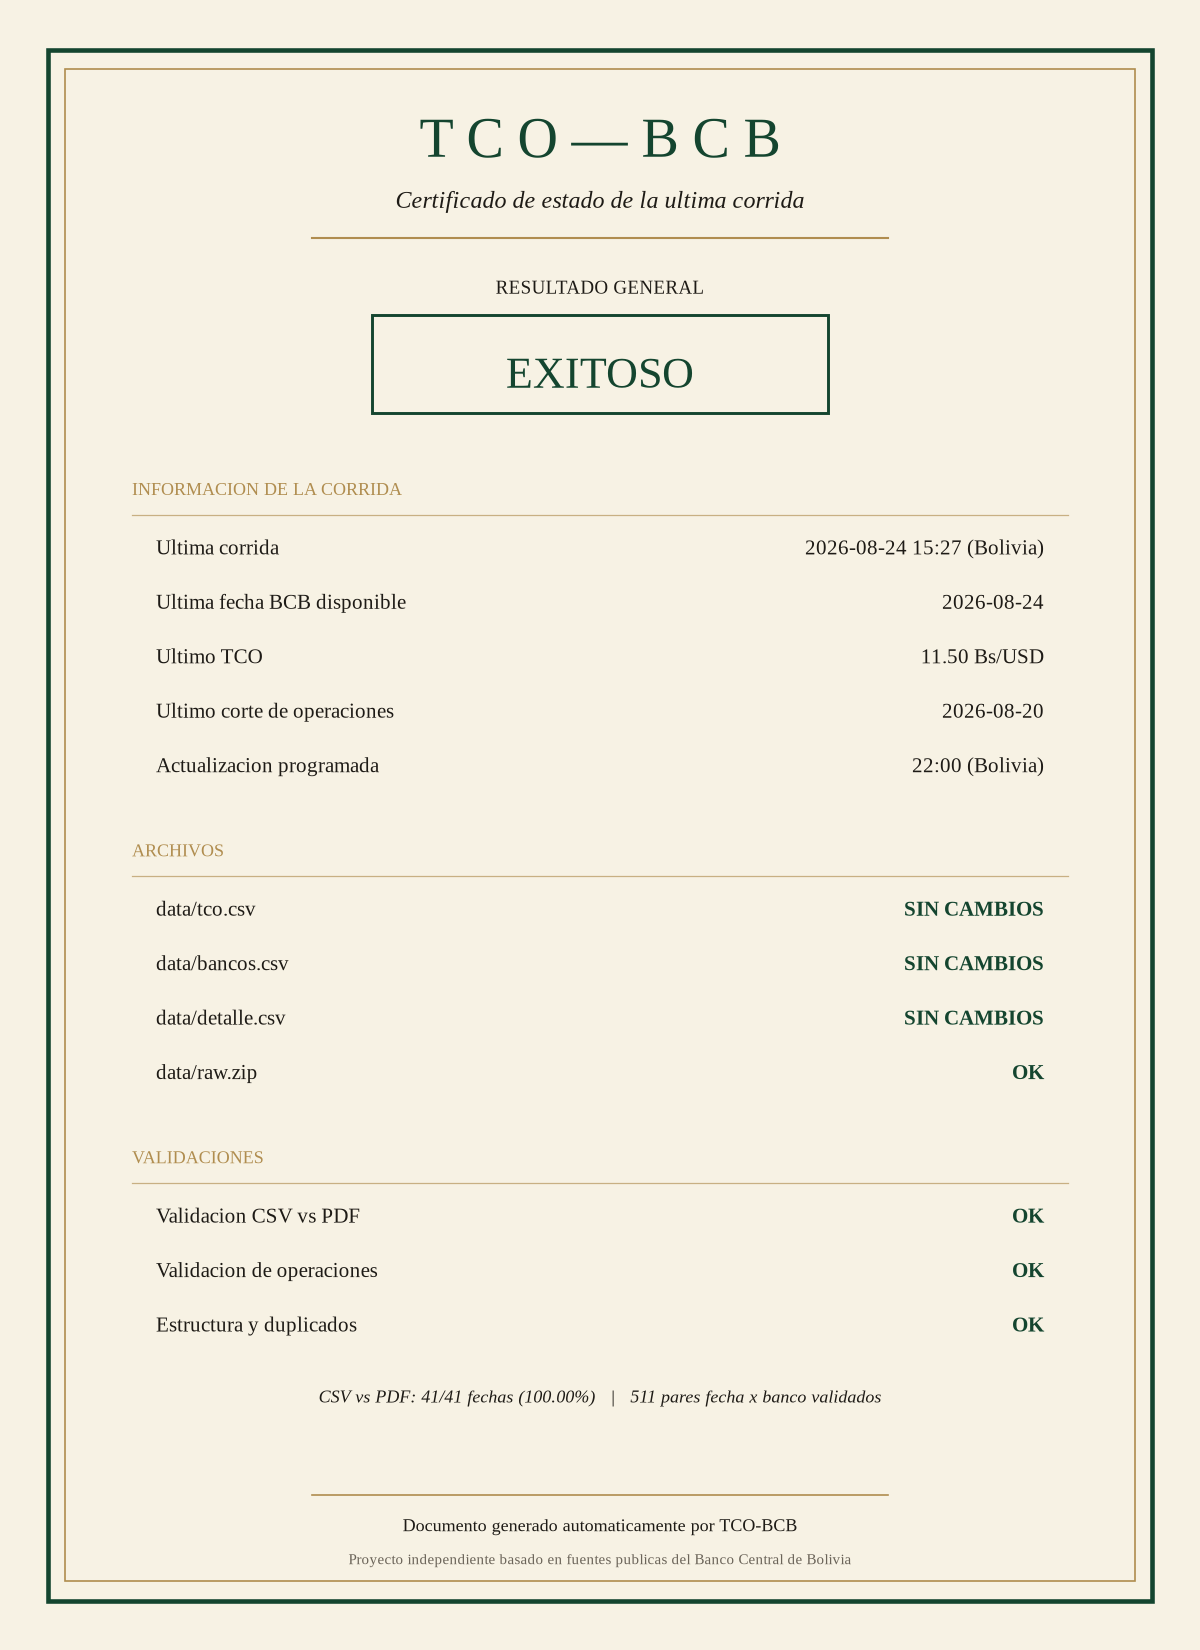
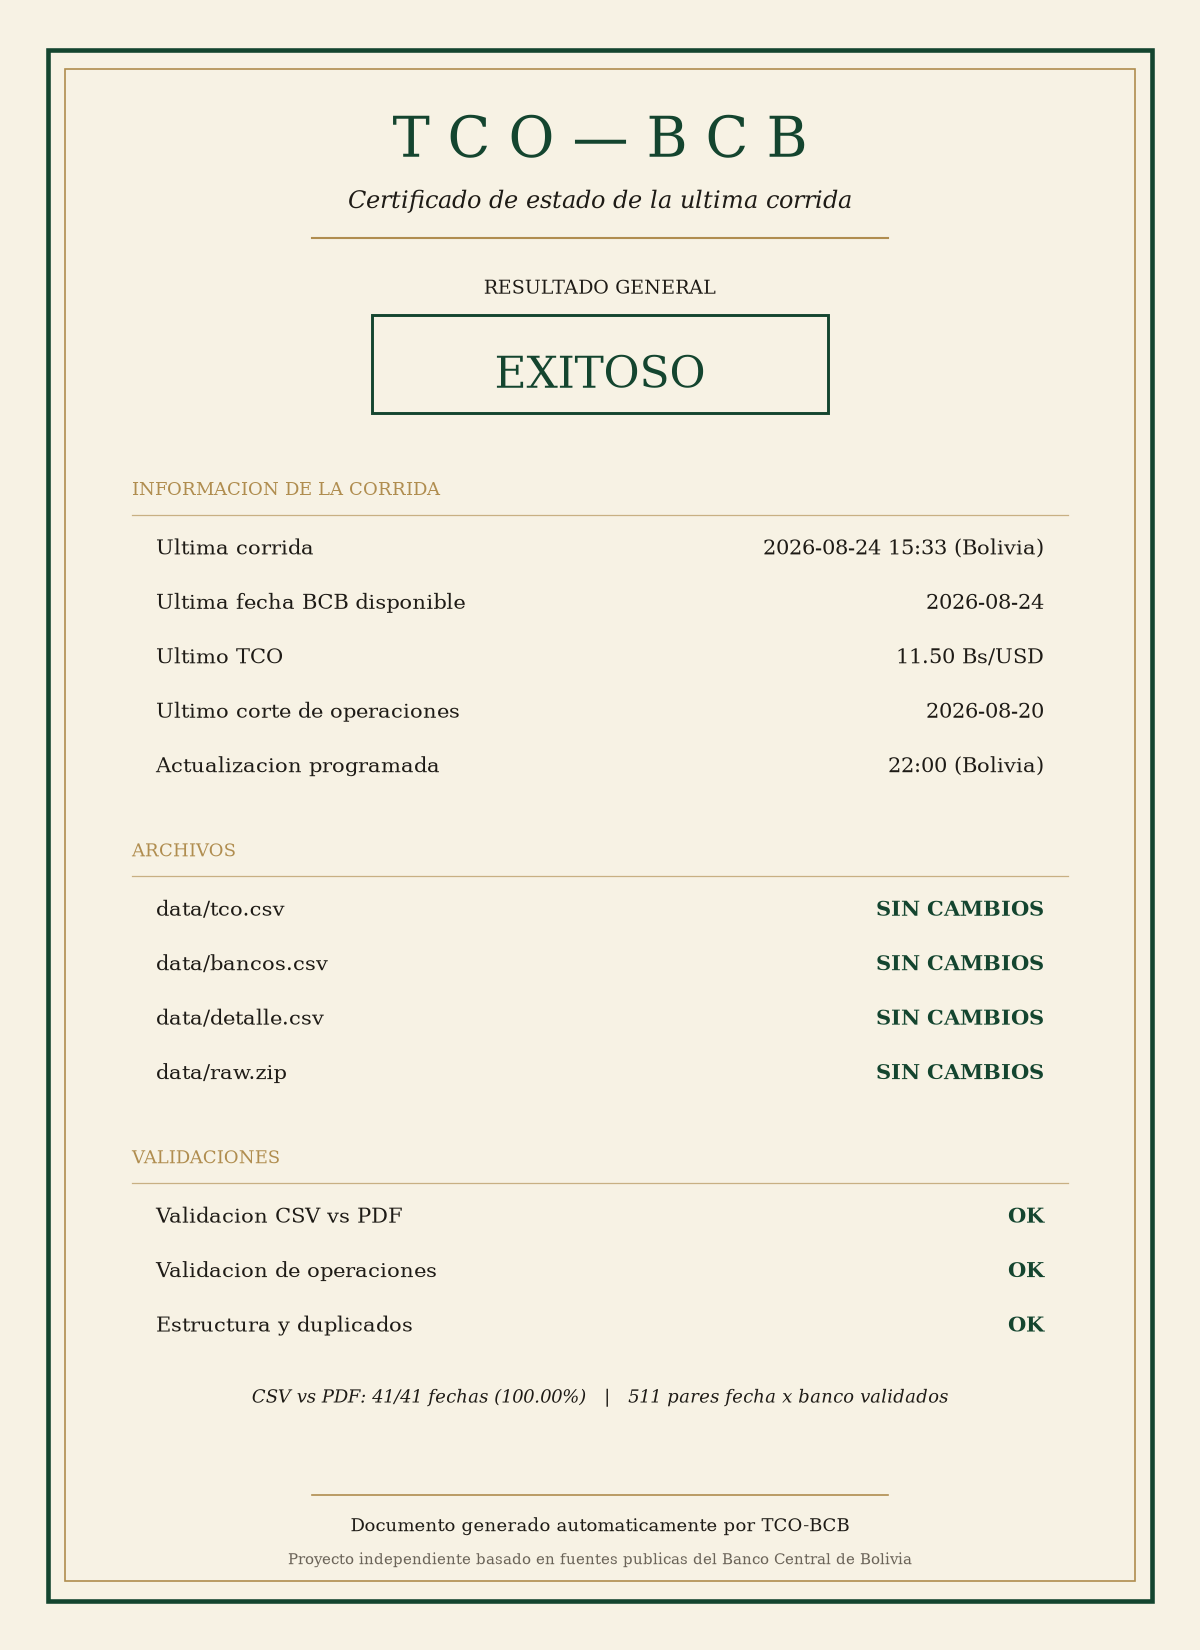
Decidir la reescritura de raw.zip por manifiesto y no por bytes

diff --git a/main.py b/main.py
@@ -538,6 +538,7 @@ def actualizar_raw(nuevos: dict) -> tuple[bool, int]:
     """
     miembros: dict[str, bytes] = {}
     huellas: dict[str, str] = {}
+    manifiesto_previo = None
     if os.path.exists(RAW_ZIP):
         try:
             with zipfile.ZipFile(RAW_ZIP) as z:
@@ -546,11 +547,12 @@ def actualizar_raw(nuevos: dict) -> tuple[bool, int]:
                     if n != "manifest.json":
                         miembros[n] = z.read(n)
                 if "manifest.json" in nombres:
-                    previo = json.loads(z.read("manifest.json").decode("utf-8"))
+                    manifiesto_previo = z.read("manifest.json")
+                    previo = json.loads(manifiesto_previo.decode("utf-8"))
                     huellas = {n: d["huella"] for n, d in previo.items() if d.get("huella")}
         except (zipfile.BadZipFile, ValueError, KeyError):
             error("data/raw.zip existente esta corrupto; se regenera desde cero.")
-            miembros, huellas = {}, {}
+            miembros, huellas, manifiesto_previo = {}, {}, None
 
     for nombre, (contenido, huella) in nuevos.items():
         if huella is not None:
@@ -571,6 +573,12 @@ def actualizar_raw(nuevos: dict) -> tuple[bool, int]:
         indent=1, ensure_ascii=False, sort_keys=True,
     ).encode("utf-8")
 
+    # La decision de reescribir se toma sobre el manifiesto, no sobre los bytes del ZIP:
+    # zlib comprime distinto segun su version, asi que un mismo contenido puede producir
+    # bytes diferentes en otra maquina y generaria commits sin ningun cambio real.
+    if manifiesto_previo == manifiesto and os.path.exists(RAW_ZIP):
+        return False, len(miembros)
+
     buf = io.BytesIO()
     with zipfile.ZipFile(buf, "w", zipfile.ZIP_DEFLATED, compresslevel=9) as z:
         for nombre in sorted(list(miembros) + ["manifest.json"]):
@@ -579,16 +587,8 @@ def actualizar_raw(nuevos: dict) -> tuple[bool, int]:
             info.compress_type = zipfile.ZIP_DEFLATED
             info.external_attr = 0o644 << 16
             z.writestr(info, datos)
-    nuevo = buf.getvalue()
-
-    anterior = None
-    if os.path.exists(RAW_ZIP):
-        with open(RAW_ZIP, "rb") as fh:
-            anterior = fh.read()
-    if anterior == nuevo:
-        return False, len(miembros)
     with open(RAW_ZIP, "wb") as fh:
-        fh.write(nuevo)
+        fh.write(buf.getvalue())
     return True, len(miembros)
 
 
